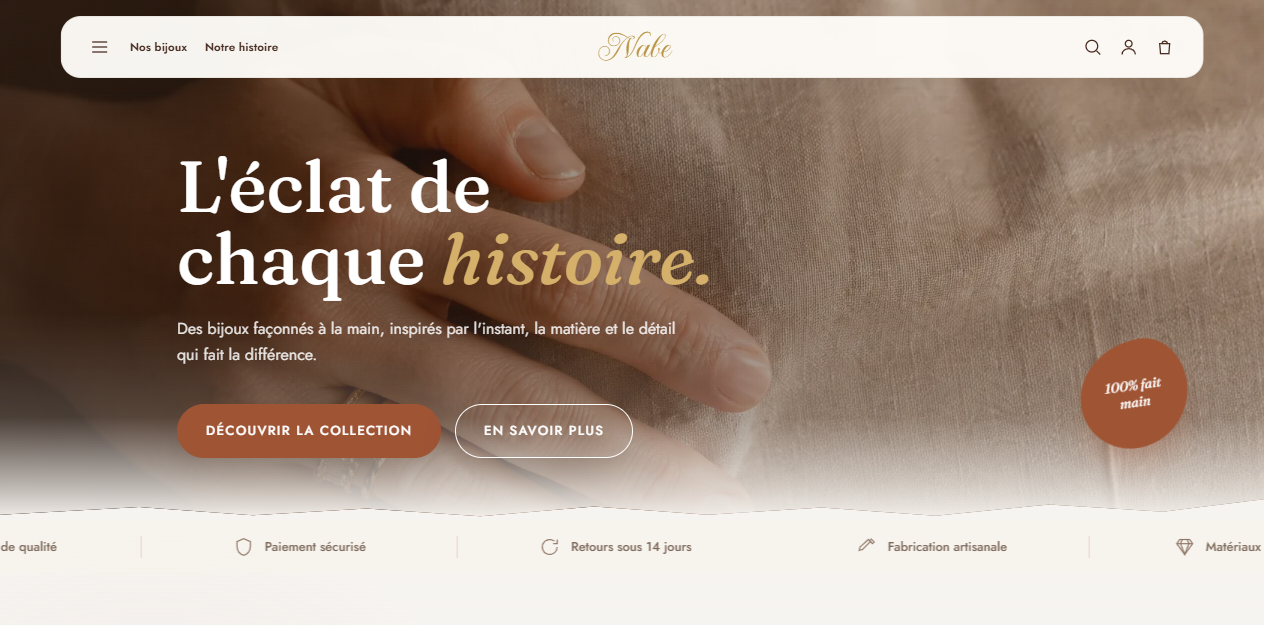
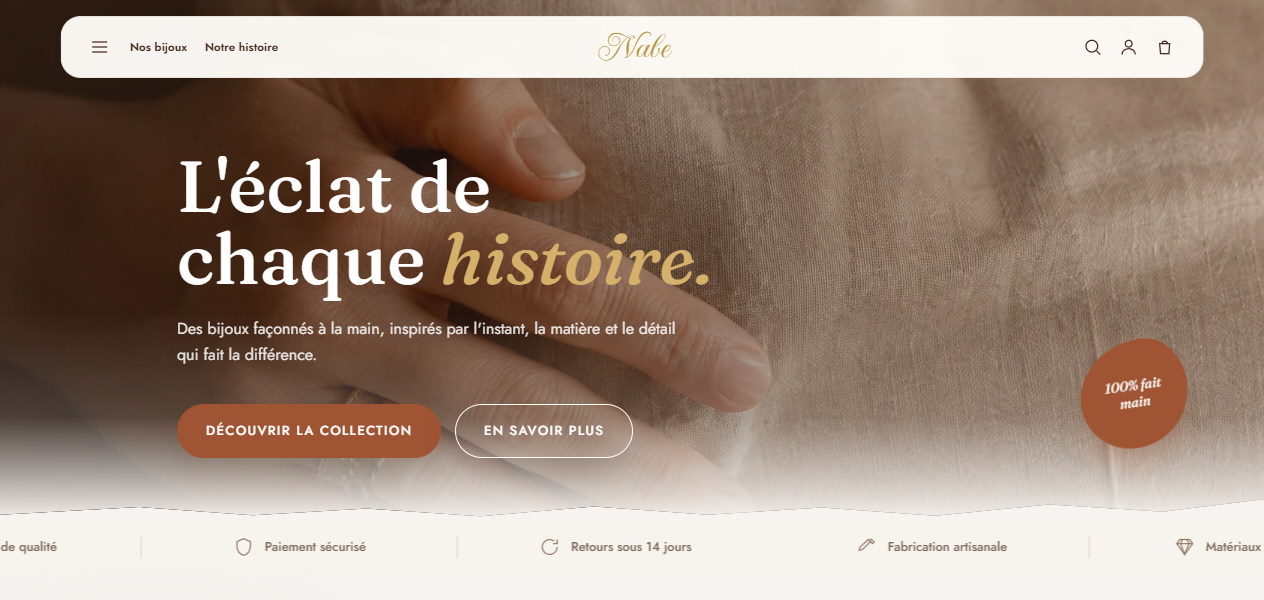
Restore hero preview and fix dark theme and Nabe card

diff --git a/index.html b/index.html
@@ -396,26 +396,26 @@
         }
 
         .code-window {
-            background: #fff;
-            border-radius: 24px;
+            background: var(--code-bg);
+            border-radius: 15px;
             overflow: hidden;
-            box-shadow: 0 28px 75px rgba(61,42,78,0.14);
-            transform: none;
+            box-shadow: 0 30px 90px rgba(0,0,0,0.5);
+            transform: perspective(1000px) rotateY(-5deg);
             transition: transform 0.6s ease;
-            border: 1px solid rgba(90,71,110,.1);
+            border: 1px solid #333;
         }
 
         .code-window:hover {
-            transform: translateY(-3px);
+            transform: perspective(1000px) rotateY(0deg) scale(1.02);
         }
 
         .window-header {
-            background: #fff;
+            background: #2a2a2a;
             padding: 12px 15px;
             display: flex;
             align-items: center;
             gap: 8px;
-            border-bottom: 1px solid #f0edf4;
+            border-bottom: 1px solid #333;
         }
 
         .window-dot {
@@ -439,28 +439,27 @@
         .window-dot:nth-child(3):hover { box-shadow: 0 0 10px #28ca42; }
 
         .code-content {
-            padding: clamp(18px,2.5vw,30px);
+            padding: 30px;
             font-family: 'Courier New', ui-monospace, monospace;
-            font-size: clamp(.72rem,.9vw,.9rem);
+            font-size: 0.9em;
             line-height: 1.8;
-            color: #424052;
-            overflow-wrap: anywhere;
+            color: #d4d4d4;
         }
 
         .code-line {
             display: block;
             margin: 5px 0;
-            opacity: 1;
+            opacity: 0;
+            animation: typeIn 0.5s ease forwards;
             position: relative;
-            padding-left: 26px;
-            overflow-wrap: anywhere;
+            padding-left: 30px;
         }
 
         .code-line::before {
             content: attr(data-line);
             position: absolute;
             left: 0;
-            color: #a9a4b3;
+            color: #666;
             font-size: 0.85em;
         }
 
@@ -876,7 +875,6 @@
             position: relative;
             overflow: hidden;
             background: #f5f2f8;
-            padding: 10px;
         }
 
         .example-mockup {
@@ -884,23 +882,23 @@
             width: 100%;
             height: 100%;
             background: white;
-            border: 1px solid #ede9f1;
-            border-radius: 14px;
+            border: 0;
+            border-radius: 0;
             overflow: hidden;
-            box-shadow: 0 8px 22px rgba(41,32,52,0.11);
-            transition: all 0.3s ease;
+            box-shadow: none;
+            transition: none;
         }
 
         .example-mockup img {
             width: 100%;
             height: 100%;
-            object-fit: contain;
+            object-fit: cover;
             object-position: top center;
             display: block;
         }
 
         .example-card:hover .example-mockup {
-            transform: translateY(-2px);
+            transform: none;
         }
 
         .example-info { padding: 20px 22px 22px; }
@@ -917,6 +915,28 @@
         .local-note-aside { padding-left: 18px; border-left: 1px solid #ede8f0; color: #706b7a; font-size: .9rem; line-height: 1.55; }
         .local-note-aside strong { color: #54467a; }
         @media (max-width: 700px) { .local-note { margin: 0 16px; padding: 20px; grid-template-columns: auto 1fr; transform: translateY(-8px); gap: 12px; } .local-note-aside { grid-column: 1/-1; border-left: 0; border-top: 1px solid #ede8f0; padding: 12px 0 0; } }
+
+        /* Les éléments ajoutés à la landing suivent aussi le thème sombre. */
+        .dark-mode .hero {
+            background: linear-gradient(120deg, #17151b 0%, #211c2b 58%, #241b20 100%);
+        }
+        .dark-mode .hero::before {
+            background: radial-gradient(circle at 85% 20%, rgba(255,255,255,.07) 0%, transparent 32%), radial-gradient(circle at 12% 90%, rgba(165,137,200,.12) 0%, transparent 35%);
+        }
+        .dark-mode .hero-kicker, .dark-mode .closing-tag { color: #c7b9f2; }
+        .dark-mode .hero-reassurance { color: #c3bdce; }
+        .dark-mode .feature-badge { background: #26212f; color: #eee9f7; border-color: #3c3547; }
+        .dark-mode .feature-badge:hover { background: #332b40; }
+        .dark-mode .code-window { box-shadow: 0 30px 90px rgba(0,0,0,.45); }
+        .dark-mode .local-note { background: #1a1821; border-color: #383341; box-shadow: 0 12px 32px rgba(0,0,0,.2); }
+        .dark-mode .local-note-mark { background: #302719; color: #f1c066; }
+        .dark-mode .local-note-copy strong, .dark-mode .local-note-aside strong { color: #ded3ff; }
+        .dark-mode .local-note-copy p, .dark-mode .local-note-aside { color: #c3bdce; }
+        .dark-mode .local-note-aside { border-color: #383341; }
+        .dark-mode .example-image { background: #17151b; }
+        .dark-mode .example-mockup { background: #1e1b25; }
+        .dark-mode .example-info .example-link { color: #c3b1ff; }
+        .dark-mode .skip-link { background: #211c2b; color: #f4f0fa; }
         .skip-link { position: fixed; top: 12px; left: 12px; z-index: 100001; padding: 12px 16px; border-radius: 10px; background: #fff; color: #322b45; transform: translateY(-160%); box-shadow: 0 4px 18px #322b4522; }
         .skip-link:focus { transform: translateY(0); }
         @media (prefers-reduced-motion: reduce) { *, *::before, *::after { animation-duration: .01ms !important; animation-iteration-count: 1 !important; scroll-behavior: auto !important; transition-duration: .01ms !important; } }
